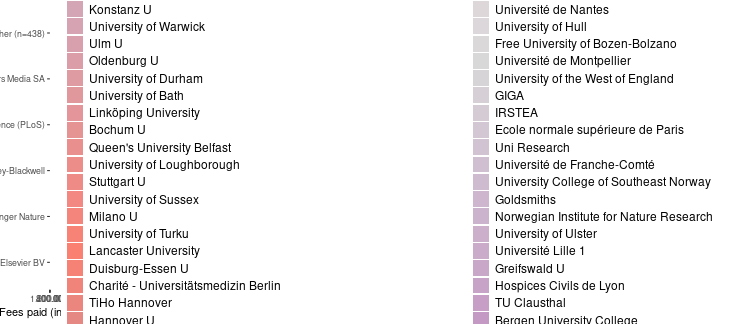
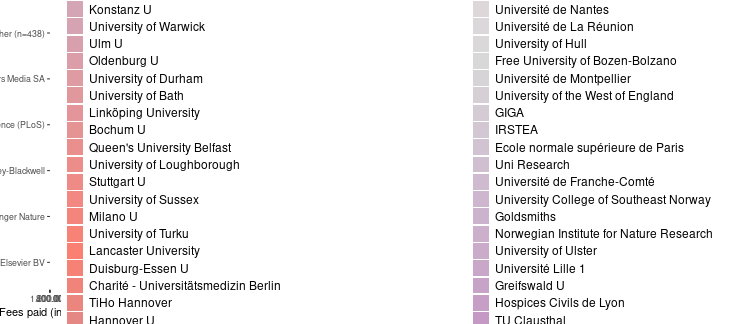
post: couperin data reunion 2018

Changed region(s): [[0.6389, 0.0617, 0.9431, 1.0]]

diff --git a/about.md b/about.md
@@ -332,13 +332,13 @@ Jisc Collections released data on APC payments made by UK higher education insti
 
 Information on both open access journal articles and open access publication of articles in toll-access journals ("hybrid") are provided.
 
-In total,  163 720 197 € for  84 425 articles were paid by the participating unviversities. Average  fee is 1 939.2 € and the median 1 743 €.
+In total,  163 745 791 € for  84 440 articles were paid by the participating unviversities. Average  fee is 1 939.2 € and the median 1 743 €.
 
 ### Open Access Journals
 
 
 
-At the moment, the dataset releases information on 49 668 articles in open access journals which charge publication fees. Total expenditure amounts to  77 579 499 €. Average  fee is 1 562 € and the median 1 480 €.
+At the moment, the dataset releases information on 49 682 articles in open access journals which charge publication fees. Total expenditure amounts to  77 602 363 €. Average  fee is 1 562 € and the median 1 480 €.
 
 View dataset on [GitHub](https://github.com/OpenAPC/openapc-de/blob/master/data/apc_de.csv).
 
@@ -517,7 +517,7 @@ View dataset on [GitHub](https://github.com/OpenAPC/openapc-de/blob/master/data/
 |Université de Bourgogne                                              |       29|            46,606|         1,607|  1,534|
 |Université de Caen Normandie                                         |       32|            41,815|         1,307|  1,350|
 |Université de Franche-Comté                                          |       18|            21,696|         1,205|  1,184|
-|Université de La Réunion                                             |        9|             9,534|         1,059|    995|
+|Université de La Réunion                                             |       23|            32,398|         1,409|  1,389|
 |Université de La Rochelle                                            |        2|             3,905|         1,952|  1,952|
 |Université de Lorraine                                               |      186|           221,305|         1,190|  1,183|
 |Université de Montpellier                                            |       22|            37,534|         1,706|  1,783|
@@ -598,7 +598,7 @@ View dataset on [GitHub](https://github.com/OpenAPC/openapc-de/blob/master/data/
 
 
 In many toll-access journals some of the articles are open access after a fee has been paid. This model is often called "hybrid open access".
-The dataset covers 34 757 hybrid open access articles. Total expenditure amounts to  86 140 698 €. Average  fee is 2 478.4 € and the median 2 436 €.
+The dataset covers 34 758 hybrid open access articles. Total expenditure amounts to  86 143 428 €. Average  fee is 2 478.4 € and the median 2 436 €.
 
 The following institutions have contributed its expenditures for hybrid open access.
 
@@ -706,6 +706,7 @@ The following institutions have contributed its expenditures for hybrid open acc
 |Université de Bourgogne                                              |        1|             1,950|         1,950|  1,950|
 |Université de Caen Normandie                                         |        1|               750|           750|    750|
 |Université de Franche-Comté                                          |        1|               307|           307|    307|
+|Université de La Réunion                                             |        1|             2,730|         2,730|  2,730|
 |Université de Lorraine                                               |       14|            33,419|         2,387|  2,640|
 |Université de Montpellier                                            |        1|             3,583|         3,583|  3,583|
 |Université de Nantes                                                 |        2|             6,191|         3,096|  3,096|

diff --git a/_posts/2019-10-08-couperin.md b/_posts/2019-10-08-couperin.md
@@ -1,0 +1,53 @@
+---
+layout:     post
+author:     Christoph Broschinski
+author_lnk: https://github.com/cbroschinski
+title:      Couperin.org provides 2018 APC expenditures for the Université de La Réunion
+date:       2019-10-08 10:00:00
+summary:    
+categories: [general, openAPC]
+comments: true
+---
+
+
+
+
+The [Couperin consortium](https://couperin.org) collects data on APC expenditures from universities and other research institutions in France. 
+
+Additional APC expenditures for the Université de La Réunion have now been made available to OpenAPC.
+
+Contact Persons for Couperin are [Valerie Larroque](mailto:valerie.larroque@couperin.org) and [Sandrine Malotaux](mailto:sandrine.malotaux@inp-toulouse.fr).
+
+## Cost data
+
+
+The new data provided by Couperin covers publication fees for 15 articles published at the Université de La Réunion in 2018. Total expenditure amounts to 25 594€ and the average fee is 1 706€.
+
+
+## Overview
+
+A detailed analysis of the contributed data set provides the following overview:
+
+### Breakdown by publisher
+
+
+|                                  | Articles| Fees paid in EURO| Mean Fee paid|
+|:---------------------------------|--------:|-----------------:|-------------:|
+|Copernicus GmbH                   |        4|              6630|          1658|
+|Informa UK Limited                |        2|              6330|          3165|
+|Springer Nature                   |        2|              2740|          1370|
+|American Society for Microbiology |        1|               681|           681|
+|Frontiers Media SA                |        1|              1799|          1799|
+|MDPI AG                           |        1|              1312|          1312|
+|OMICS Publishing Group            |        1|               862|           862|
+|Public Library of Science (PLoS)  |        1|              1286|          1286|
+|Schweizerbart                     |        1|              2318|          2318|
+|Wiley-Blackwell                   |        1|              1637|          1637|
+
+### Fees paid per publisher (in EURO)
+
+![plot of chunk tree_couperin_2019_10_08_full](/figure/tree_couperin_2019_10_08_full-1.png)
+
+###  Average costs per publisher (in EURO)
+
+![plot of chunk box_couperin_2019_10_08_publisher_full](/figure/box_couperin_2019_10_08_publisher_full-1.png)
